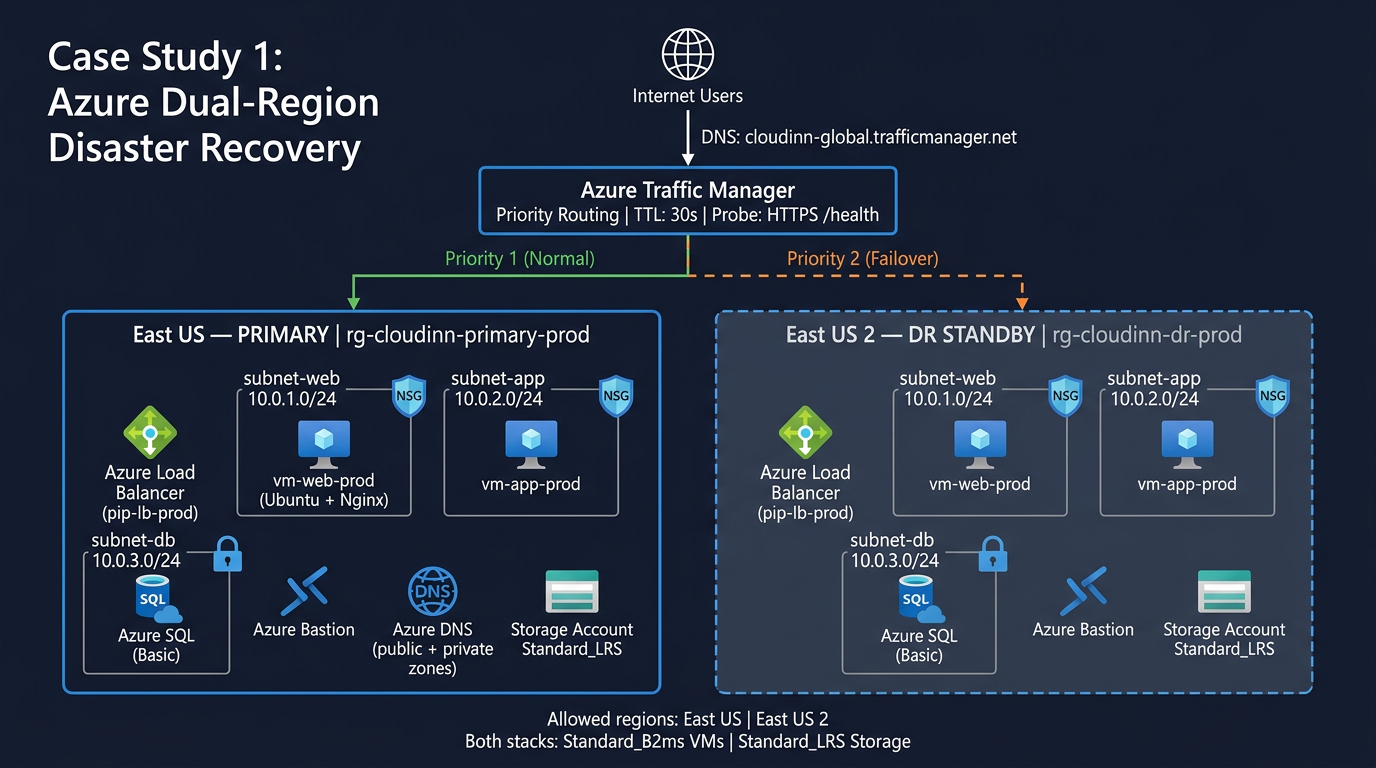
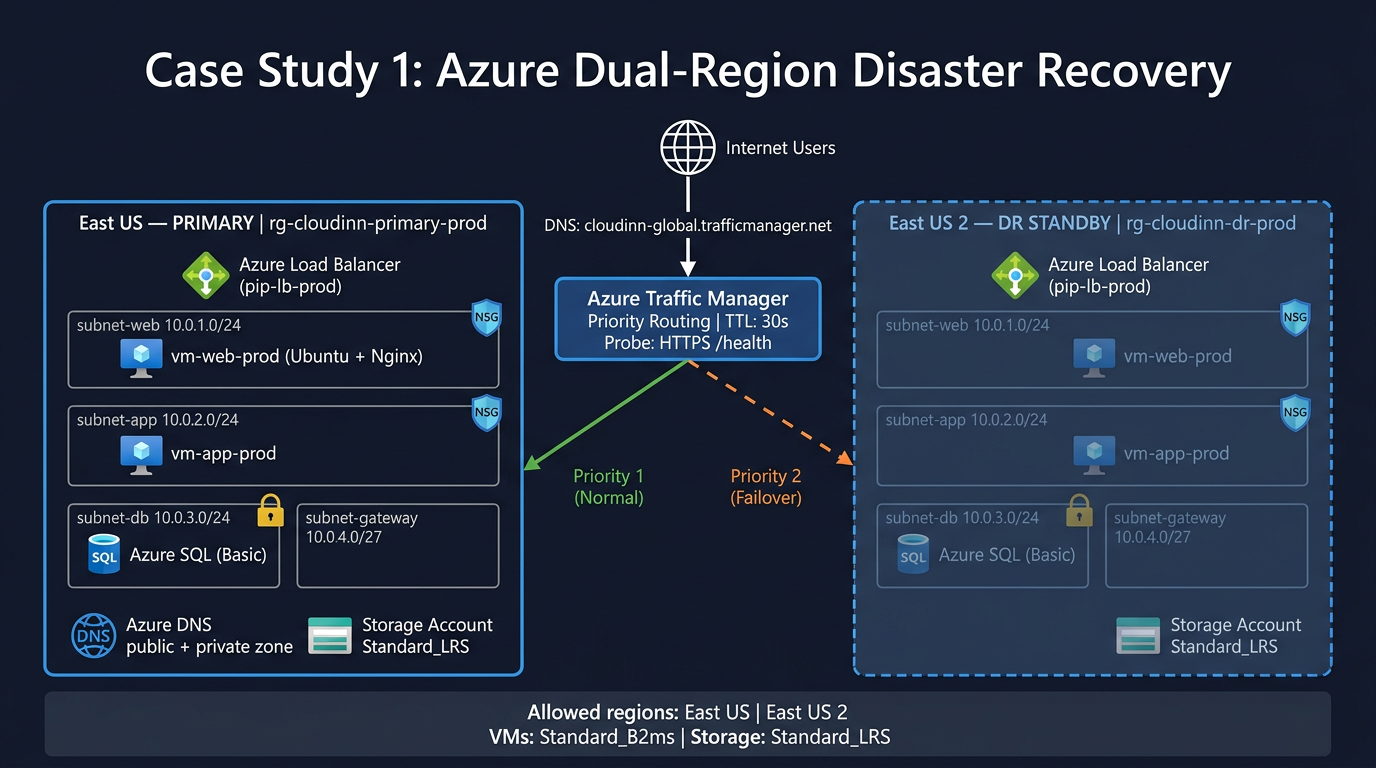
Remove all Azure Bastion references from docs and architecture
- docs/architecture/case-study-1-dr.md: removed Bastion subnet label from
  ASCII diagram, removed bastion-cloudinn-prod from resource map, updated
  Security Layer 2 to reflect no-Bastion VM access note
- docs/concepts/networking.md: removed AzureBastionSubnet from CIDR example,
  updated heading to match Azure lab, added lab note explaining Bastion is
  intentionally excluded to keep deployment fast
- docs/architecture/case-study-1-dr-architecture.png: regenerated diagram
  without Bastion, showing only deployed subnets (web/app/db/gateway)

Made-with: Cursor

diff --git a/docs/architecture/case-study-1-dr.md b/docs/architecture/case-study-1-dr.md
@@ -67,7 +67,6 @@ Both regions use the same VNet address space, subnet layout, NSG rules, and appl
          │  └──────────────────────┘    │   │  └──────────────────────────┘   │
          │                              │   │                                  │
          │  Storage: Standard_LRS       │   │  Storage: Standard_LRS          │
-         │  Bastion: AzureBastionSubnet │   │  Bastion: AzureBastionSubnet    │
          │                              │   │                                  │
          │  Azure DNS:                  │   │                                  │
          │  ├── Public Zone             │   │                                  │
@@ -119,7 +118,6 @@ FAILBACK (East US recovers):
 | `nsg-web-prod` | Both | Allow 443/80 from Internet |
 | `nsg-app-prod` | Both | Allow 8080 from web subnet only |
 | `nsg-db-prod` | Both | Allow 5432 from app subnet only |
-| `bastion-cloudinn-prod` | Both | Browser-based RDP/SSH, no public VM IPs |
 | `lb-web-prod` | Both | Standard Load Balancer |
 | `pip-lb-prod` | Both | Static public IP → Traffic Manager endpoint |
 | `vm-web-prod` | Both | Ubuntu 22.04 + Nginx (Standard_B2ms) |
@@ -141,7 +139,7 @@ Layer 1: Network (NSGs)
   └── DB tier  : Only 5432 from app subnet (10.0.2.0/24)
 
 Layer 2: VM Access
-  └── Azure Bastion on both regions: Secure RDP/SSH, no public IPs on VMs
+  └── VMs have no public IPs — access via Azure Cloud Shell or jump box if needed
 
 Layer 3: Data
   ├── Azure SQL: publicNetworkAccess = Disabled, TLS 1.2 minimum

diff --git a/docs/concepts/networking.md b/docs/concepts/networking.md
@@ -22,15 +22,14 @@ Subnets segment the VNet's address space into smaller ranges. Each subnet:
 - Cannot overlap with other subnets
 - Azure reserves the first 4 and last 1 IP in each subnet
 
-### Example CIDR Planning (mirroring AWS architecture)
+### Example CIDR Planning (Azure dual-region DR lab)
 
 ```
 VNet: 10.0.0.0/16  (65,536 addresses)
-├── subnet-web       10.0.1.0/24   (256 addresses) - Web tier
-├── subnet-app       10.0.2.0/24   (256 addresses) - Application tier
-├── subnet-db        10.0.3.0/24   (256 addresses) - Database tier
-├── subnet-gateway   10.0.4.0/27   (32 addresses)  - VPN/ExpressRoute GW
-└── AzureBastionSubnet 10.0.5.0/27 (32 addresses)  - Bastion host
+├── subnet-web     10.0.1.0/24   (256 addresses) - Web tier
+├── subnet-app     10.0.2.0/24   (256 addresses) - Application tier
+├── subnet-db      10.0.3.0/24   (256 addresses) - Database tier
+└── subnet-gateway 10.0.4.0/27   (32 addresses)  - VPN/ExpressRoute GW
 ```
 
 ---
@@ -91,6 +90,8 @@ A managed PaaS service for secure RDP/SSH access to VMs without exposing public 
 - Requires a dedicated subnet named `AzureBastionSubnet` with `/27` minimum
 - Connects via browser-based client (no client software needed)
 - Logs sessions to Azure Monitor
+
+> **Lab note:** Azure Bastion is not deployed in this hands-on lab to keep deployment time short (~2 min vs ~15 min). To access VMs for troubleshooting, use Azure Cloud Shell or enable JIT VM Access in Microsoft Defender for Cloud.
 
 ---
 
